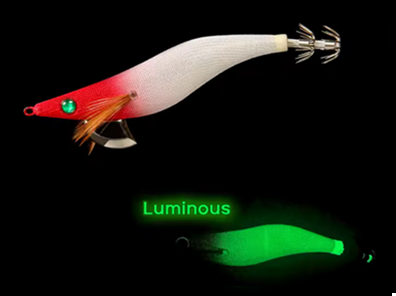
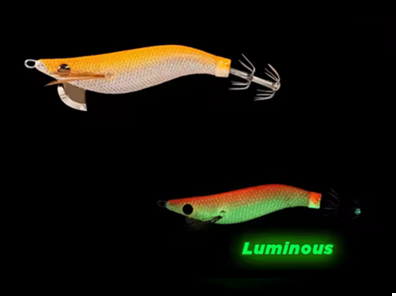
Update

diff --git a/menu/senuelos/squidking/info/modelo-C.html b/menu/senuelos/squidking/info/modelo-C.html
@@ -8,15 +8,15 @@
     <link rel="icon" type="image/png" href="../../../../IMAGES/icono.png">
 
     <!-- SEO -->
-    <title>Letoyo Modelo C – Análisis completo del egi</title>
+    <title>SquidKing Modelo C – Análisis completo del egi</title>
 
     <meta name="description" 
-          content="Review detallada del Letoyo Modelo C: características, luminiscencia, comportamiento en distintas condiciones de pesca, tabla de eficacia y enlaces para comprarlo al mejor precio.">
+          content="Review detallada del SquidKing Modelo C: características, luminiscencia, comportamiento en distintas condiciones de pesca, tabla de eficacia y enlaces para comprarlo al mejor precio.">
 
     <meta name="robots" content="index, follow">
 
     <!-- Canonical correcto -->
-    <link rel="canonical" href="https://egislowcost.es/menu/senuelos/letoyo/info/Modelo-C.html">
+    <link rel="canonical" href="https://egislowcost.es/menu/senuelos/squidking/info/modelo-C.html">
 
     <!-- Estilos -->
     <link rel="stylesheet" href="../../../../STYLE/styles.css">
@@ -26,18 +26,18 @@
     {
       "@context": "https://schema.org/",
       "@type": "Product",
-      "name": "Letoyo Modelo C",
-      "image": "https://egislowcost.es/menu/senuelos/letoyo/info/Modelo-C.png",
+      "name": "SquidKing Modelo C",
+      "image": "https://egislowcost.es/menu/senuelos/squidking/info/modelo-C.png",
       "brand": {
         "@type": "Brand",
-        "name": "Letoyo"
+        "name": "SquidKing"
       },
-      "description": "Análisis del señuelo egi Letoyo Modelo C con acabado textil, luminiscencia verde y excelente rendimiento en aguas claras, turbias y condiciones variables.",
+      "description": "Análisis del señuelo egi SquidKing Modelo C con acabado textil, luminiscencia verde y excelente rendimiento en aguas claras, turbias y condiciones variables.",
       "offers": {
         "@type": "AggregateOffer",
         "priceCurrency": "EUR",
         "lowPrice": "3.00",
-        "highPrice": "8.00",
+        "highPrice": "3.50",
         "url": "https://s.click.aliexpress.com/e/_Dl27oLr",
         "availability": "https://schema.org/InStock"
       }
@@ -77,26 +77,25 @@
 </header>
 
 <section class="hero">
-    <img width="200px" src="../letoyo.png" alt="Letoyo - Serie de egis">
-    <h1>Letoyo Modelo C – Análisis completo</h1>
+    <img width="200px" src="../squidking.png" alt="SquidKing - Serie de egis">
+    <h1>SquidKing Modelo C – Análisis completo</h1>
 </section>
 
 <section class="detalle-egi">
 
     <!-- Imagen del modelo -->
     <div class="imagen-principal">
-        <img src="Modelo-C.png" alt="Letoyo Egi Modelo C">
+        <img src="modelo-C.png" alt="SquidKing Egi Modelo C">
     </div>
-
 
     <!-- Características -->
     <div class="bloque">
         <h2>🎨 Características</h2>
         <ul>
-            <li><strong>Color base:</strong> Blanco con degradado a rojo en la parte posterior, un esquema de color que simula los tonos de muchos crustáceos, como los camarones, muy atractivos para los calamares.</li>
-            <li><strong>Ojos:</strong> Verde brillante, que crea un alto contraste visual, destacando en aguas oscuras y siendo un punto de atracción para los calamares.</li>
-            <li><strong>Brillo:</strong> La luminiscencia verde asegura que el Egi sea visible incluso en condiciones de poca luz, ideal para pescas nocturnas o en aguas profundas </li>
-            <li><strong>Acabado:</strong> La malla esta fabricada con un material que permite la refracción de luz, lo que proporciona un efecto de brillo que aumenta la visibilidad bajo el agua.</li>
+            <li><strong>Color base:</strong> Dorso naranja brillante degradado hacia un vientre blanco perlado.</li>
+            <li><strong>Ojos:</strong> Oscuros con brillo metálico.</li>
+            <li><strong>Brillo:</strong> Luminiscente verde visible en todo el cuerpo.</li>
+            <li><strong>Acabado:</strong> Tejido de alta calidad que aporta realismo y estabilidad.</li>
         </ul>
     </div>
 
@@ -104,12 +103,11 @@
     <div class="bloque">
         <h2>🌤 Condiciones ideales de uso</h2>
         <ul>
-            <li>☀ <strong>Día soleado o aguas claras:</strong> El blanco y el rojo crean un buen contraste con el entorno y son altamente visibles en aguas claras.</li>
-            <li>☁ <strong>Días nublados:</strong> La luminiscencia verde y el brillo del material textil siguen haciendo este Egi visible en condiciones de baja luz, sin perder efectividad.</li>
-            <li>🌅 <strong>Atardecer o amanecer:</strong> El brillo verde y los colores vibrantes atraerán a los calamares en sus horas de mayor actividad.</li>
-            <li>🌙 <strong>Noche:</strong> El componente luminoso verde asegura que el Egi se mantenga visible y atractivo para los calamares, incluso cuando la luz es mínima.</li>
-            <li>🪸 <strong>Fondos rocosos o mixtos:</strong> Al igual que en condiciones de baja visibilidad, los colores brillantes y el brillo en la oscuridad destacan en fondos complejos.</li>
-
+            <li>☀ <strong>Día soleado:</strong> Muy visible en aguas claras.</li>
+            <li>🌊 <strong>Aguas turbias:</strong> Excelente contraste.</li>
+            <li>🌅 <strong>Amanecer/Atardecer:</strong> Rendimiento muy consistente.</li>
+            <li>🌙 <strong>Noche:</strong> Su brillo verde lo hace detectable sin ser exagerado.</li>
+            <li>🪸 <strong>Fondos mixtos:</strong> Destaca pero mantiene naturalidad.</li>
         </ul>
     </div>
 
@@ -117,38 +115,40 @@
     <div class="bloque">
         <h2>🧠 Comportamiento esperado</h2>
         <ul>
-            <li>👉 Egi de atracción activa, diseñado para llamar la atención de calamares curiosos en fases de caza o en situaciones donde los colores naturales ya no producen suficiente interés.</li>
-            <li>👉 El brillo verde en la oscuridad aumenta la eficacia nocturna, y el contraste entre el blanco y rojo destaca en aguas claras o cuando hay más luz.</li>
-            <li>👉 El diseño con colores vibrantes + luminiscencia verde es perfecto para atraer calamares en aguas con baja luz o en momentos de alta actividad.</li>
+            <li>👉 Egi equilibrado entre atracción y naturalidad.</li>
+            <li>👉 Ideal para calamares activos pero no extremadamente agresivos.</li>
+            <li>👉 La combinación naranja + luminiscencia verde es muy polivalente.</li>
+            <li>👉 Muy efectivo en cambios de luz o marea.</li>
         </ul>
     </div>
 
-    <!-- Resumen práctico -->
+    <!-- Resumen -->
     <div class="bloque resumen">
         <h2>⚙ Resumen práctico</h2>
-
         <table>
             <tr><th>Condición</th><th>Eficiencia</th></tr>
-            <tr><td>☀🌊 Día soleado / agua clara</td><td>🟢🟢 Muy alta</td></tr>
-            <tr><td>☁💙 Día nublado / aguas azules</td><td>🟢 alta</td></tr>
-            <tr><td>🌙🌑 Noche / aguas oscuras</td><td>🟢🟢 Muy alta</td></tr>
+            <tr><td>☀🌊 Día claro</td><td>🟢 Alta</td></tr>
+            <tr><td>☁💙 Nublado / aguas azules</td><td>🟢🟢 Muy alta</td></tr>
+            <tr><td>🌙🌑 Noche</td><td>🟢 Alta</td></tr>
             <tr><td>🦑😴 Calamares pasivos</td><td>🟡 Media</td></tr>
-            <tr><td>🦑🔥 Calamares agresivos</td><td>🟢🟢 Muy alta</td></tr>
+            <tr><td>🦑🔥 Calamares agresivos</td><td>🔥 Excelente</td></tr>
         </table>
     </div>
 
 </section>
 
-
-
-
 <div class="comprar-contenedor">
-    <a class="btn-comprar opcion" href="https://s.click.aliexpress.com/e/_Dl27oLr" target="_blank" rel="nofollow noopener noreferrer">🛒 Comprar opción 1 </a>
-    <a class="btn-comprar opcion" href="https://s.click.aliexpress.com/e/_DFu6ppr" target="_blank" rel="nofollow noopener noreferrer">🛒 Comprar opción 2</a>
-    <a class="btn-comprar opcion" href="https://s.click.aliexpress.com/e/_DCgzW5b" target="_blank" rel="nofollow noopener noreferrer">🛒 Range Hunter</a>
-    <a class="btn-comprar opcion" href="https://s.click.aliexpress.com/e/_c3HjOWLJ" target="_blank" rel="nofollow noopener noreferrer">🛒 Neon Bright</a>
-    <a class="btn-comprar opcion" href="https://s.click.aliexpress.com/e/_c4MAIJZR" target="_blank" rel="nofollow noopener noreferrer">🛒 Egi OH Live Neon</a>
+    <a class="btn-comprar opcion" href="https://s.click.aliexpress.com/e/_c4mK45wt" rel="nofollow noopener noreferrer" target="_blank">🛒 Comprar opción 1</a>
+    <a class="btn-comprar opcion" href="https://s.click.aliexpress.com/e/_c3m2rudx" rel="nofollow noopener noreferrer" target="_blank">🛒 Comprar opción 2</a>
+    <a class="btn-comprar opcion" href="https://s.click.aliexpress.com/e/_c3Ablsp3" rel="nofollow noopener noreferrer" target="_blank">🛒 Comprar opción 3</a>
+    <a class="btn-comprar opcion" href="https://s.click.aliexpress.com/e/_c3krR73L" rel="nofollow noopener noreferrer" target="_blank">🛒 Comprar opción 4</a>
+    <a class="btn-comprar opcion" href="https://s.click.aliexpress.com/e/_c4nxkQFX" rel="nofollow noopener noreferrer" target="_blank">🛒 Comprar opción 5</a>
+    <a class="btn-comprar opcion" href="https://s.click.aliexpress.com/e/_c4NQwq8D" rel="nofollow noopener noreferrer" target="_blank">🛒 Comprar opción 6</a>
 </div>
 
-<footer><p>© 2025 Egis Low Cost</p></footer>
-</body></html>
+<footer>
+    <p>© 2025 Egis Low Cost</p>
+</footer>
+
+</body>
+</html>

diff --git a/menu/senuelos/squidking/info/modelo-C2.html b/menu/senuelos/squidking/info/modelo-C2.html
@@ -8,15 +8,15 @@
     <link rel="icon" type="image/png" href="../../../../IMAGES/icono.png">
 
     <!-- SEO -->
-    <title>SquidKing Modelo B – Análisis completo del egi</title>
+    <title>Letoyo Modelo C – Análisis completo del egi</title>
 
     <meta name="description" 
-          content="Review detallada del SquidKing Modelo B: características, luminiscencia, comportamiento en distintas condiciones de pesca, tabla de eficacia y enlaces para comprarlo al mejor precio.">
+          content="Review detallada del Letoyo Modelo C: características, luminiscencia, comportamiento en distintas condiciones de pesca, tabla de eficacia y enlaces para comprarlo al mejor precio.">
 
     <meta name="robots" content="index, follow">
 
     <!-- Canonical correcto -->
-    <link rel="canonical" href="https://egislowcost.es/menu/senuelos/letoyo/info/modelo-B.html">
+    <link rel="canonical" href="https://egislowcost.es/menu/senuelos/letoyo/info/Modelo-C.html">
 
     <!-- Estilos -->
     <link rel="stylesheet" href="../../../../STYLE/styles.css">
@@ -26,18 +26,18 @@
     {
       "@context": "https://schema.org/",
       "@type": "Product",
-      "name": "SquidKing Modelo B",
-      "image": "https://egislowcost.es/menu/senuelos/letoyo/info/modelo-B.png",
+      "name": "Letoyo Modelo C",
+      "image": "https://egislowcost.es/menu/senuelos/letoyo/info/Modelo-C.png",
       "brand": {
         "@type": "Brand",
-        "name": "SquidKing"
+        "name": "Letoyo"
       },
-      "description": "Análisis del señuelo egi SquidKing Modelo B con acabado textil, luminiscencia verde y excelente rendimiento en aguas claras, turbias y condiciones variables.",
+      "description": "Análisis del señuelo egi Letoyo Modelo C con acabado textil, luminiscencia verde y excelente rendimiento en aguas claras, turbias y condiciones variables.",
       "offers": {
         "@type": "AggregateOffer",
         "priceCurrency": "EUR",
         "lowPrice": "3.00",
-        "highPrice": "3.50",
+        "highPrice": "8.00",
         "url": "https://s.click.aliexpress.com/e/_Dl27oLr",
         "availability": "https://schema.org/InStock"
       }
@@ -77,25 +77,26 @@
 </header>
 
 <section class="hero">
-    <img width="200px" src="../letoyo.png" alt="SquidKing - Serie de egis">
-    <h1>SquidKing Modelo B – Análisis completo</h1>
+    <img width="200px" src="../letoyo.png" alt="Letoyo - Serie de egis">
+    <h1>Letoyo Modelo C – Análisis completo</h1>
 </section>
 
 <section class="detalle-egi">
 
     <!-- Imagen del modelo -->
     <div class="imagen-principal">
-        <img src="modelo-B.png" alt="SquidKing Egi Modelo B">
+        <img src="Modelo-C.png" alt="Letoyo Egi Modelo C">
     </div>
+
 
     <!-- Características -->
     <div class="bloque">
         <h2>🎨 Características</h2>
         <ul>
-            <li><strong>Color base:</strong> Dorso naranja brillante degradado hacia un vientre blanco perlado.</li>
-            <li><strong>Ojos:</strong> Oscuros con brillo metálico.</li>
-            <li><strong>Brillo:</strong> Luminiscente verde visible en todo el cuerpo.</li>
-            <li><strong>Acabado:</strong> Tejido de alta calidad que aporta realismo y estabilidad.</li>
+            <li><strong>Color base:</strong> Blanco con degradado a rojo en la parte posterior, un esquema de color que simula los tonos de muchos crustáceos, como los camarones, muy atractivos para los calamares.</li>
+            <li><strong>Ojos:</strong> Verde brillante, que crea un alto contraste visual, destacando en aguas oscuras y siendo un punto de atracción para los calamares.</li>
+            <li><strong>Brillo:</strong> La luminiscencia verde asegura que el Egi sea visible incluso en condiciones de poca luz, ideal para pescas nocturnas o en aguas profundas </li>
+            <li><strong>Acabado:</strong> La malla esta fabricada con un material que permite la refracción de luz, lo que proporciona un efecto de brillo que aumenta la visibilidad bajo el agua.</li>
         </ul>
     </div>
 
@@ -103,11 +104,12 @@
     <div class="bloque">
         <h2>🌤 Condiciones ideales de uso</h2>
         <ul>
-            <li>☀ <strong>Día soleado:</strong> Muy visible en aguas claras.</li>
-            <li>🌊 <strong>Aguas turbias:</strong> Excelente contraste.</li>
-            <li>🌅 <strong>Amanecer/Atardecer:</strong> Rendimiento muy consistente.</li>
-            <li>🌙 <strong>Noche:</strong> Su brillo verde lo hace detectable sin ser exagerado.</li>
-            <li>🪸 <strong>Fondos mixtos:</strong> Destaca pero mantiene naturalidad.</li>
+            <li>☀ <strong>Día soleado o aguas claras:</strong> El blanco y el rojo crean un buen contraste con el entorno y son altamente visibles en aguas claras.</li>
+            <li>☁ <strong>Días nublados:</strong> La luminiscencia verde y el brillo del material textil siguen haciendo este Egi visible en condiciones de baja luz, sin perder efectividad.</li>
+            <li>🌅 <strong>Atardecer o amanecer:</strong> El brillo verde y los colores vibrantes atraerán a los calamares en sus horas de mayor actividad.</li>
+            <li>🌙 <strong>Noche:</strong> El componente luminoso verde asegura que el Egi se mantenga visible y atractivo para los calamares, incluso cuando la luz es mínima.</li>
+            <li>🪸 <strong>Fondos rocosos o mixtos:</strong> Al igual que en condiciones de baja visibilidad, los colores brillantes y el brillo en la oscuridad destacan en fondos complejos.</li>
+
         </ul>
     </div>
 
@@ -115,27 +117,30 @@
     <div class="bloque">
         <h2>🧠 Comportamiento esperado</h2>
         <ul>
-            <li>👉 Egi equilibrado entre atracción y naturalidad.</li>
-            <li>👉 Ideal para calamares activos pero no extremadamente agresivos.</li>
-            <li>👉 La combinación naranja + luminiscencia verde es muy polivalente.</li>
-            <li>👉 Muy efectivo en cambios de luz o marea.</li>
+            <li>👉 Egi de atracción activa, diseñado para llamar la atención de calamares curiosos en fases de caza o en situaciones donde los colores naturales ya no producen suficiente interés.</li>
+            <li>👉 El brillo verde en la oscuridad aumenta la eficacia nocturna, y el contraste entre el blanco y rojo destaca en aguas claras o cuando hay más luz.</li>
+            <li>👉 El diseño con colores vibrantes + luminiscencia verde es perfecto para atraer calamares en aguas con baja luz o en momentos de alta actividad.</li>
         </ul>
     </div>
 
-    <!-- Resumen -->
+    <!-- Resumen práctico -->
     <div class="bloque resumen">
         <h2>⚙ Resumen práctico</h2>
+
         <table>
             <tr><th>Condición</th><th>Eficiencia</th></tr>
-            <tr><td>☀🌊 Día claro</td><td>🟢 Alta</td></tr>
-            <tr><td>☁💙 Nublado / aguas azules</td><td>🟢🟢 Muy alta</td></tr>
-            <tr><td>🌙🌑 Noche</td><td>🟢 Alta</td></tr>
+            <tr><td>☀🌊 Día soleado / agua clara</td><td>🟢🟢 Muy alta</td></tr>
+            <tr><td>☁💙 Día nublado / aguas azules</td><td>🟢 alta</td></tr>
+            <tr><td>🌙🌑 Noche / aguas oscuras</td><td>🟢🟢 Muy alta</td></tr>
             <tr><td>🦑😴 Calamares pasivos</td><td>🟡 Media</td></tr>
-            <tr><td>🦑🔥 Calamares agresivos</td><td>🔥 Excelente</td></tr>
+            <tr><td>🦑🔥 Calamares agresivos</td><td>🟢🟢 Muy alta</td></tr>
         </table>
     </div>
 
 </section>
+
+
+
 
 <div class="comprar-contenedor">
     <a class="btn-comprar opcion" href="https://s.click.aliexpress.com/e/_Dl27oLr" target="_blank" rel="nofollow noopener noreferrer">🛒 Comprar opción 1 </a>
@@ -145,9 +150,5 @@
     <a class="btn-comprar opcion" href="https://s.click.aliexpress.com/e/_c4MAIJZR" target="_blank" rel="nofollow noopener noreferrer">🛒 Egi OH Live Neon</a>
 </div>
 
-<footer>
-    <p>© 2025 Egis Low Cost</p>
-</footer>
-
-</body>
-</html>
+<footer><p>© 2025 Egis Low Cost</p></footer>
+</body></html>

diff --git a/menu/senuelos/squidking.html b/menu/senuelos/squidking.html
@@ -208,7 +208,7 @@
     </div>
 
     <div class="tarjeta">
-        <a href="https://s.click.aliexpress.com/e/_c4mK45wt" target="_blank">
+        <a href="squidking/info/modelo-C.html" target="_blank">
             <img src="squidking/img/squidking-C.png" alt="Squid King C">
             <h3>Modelo C</h3>
             <div class="equivalencia">Egi Sutte R – RO</div>
